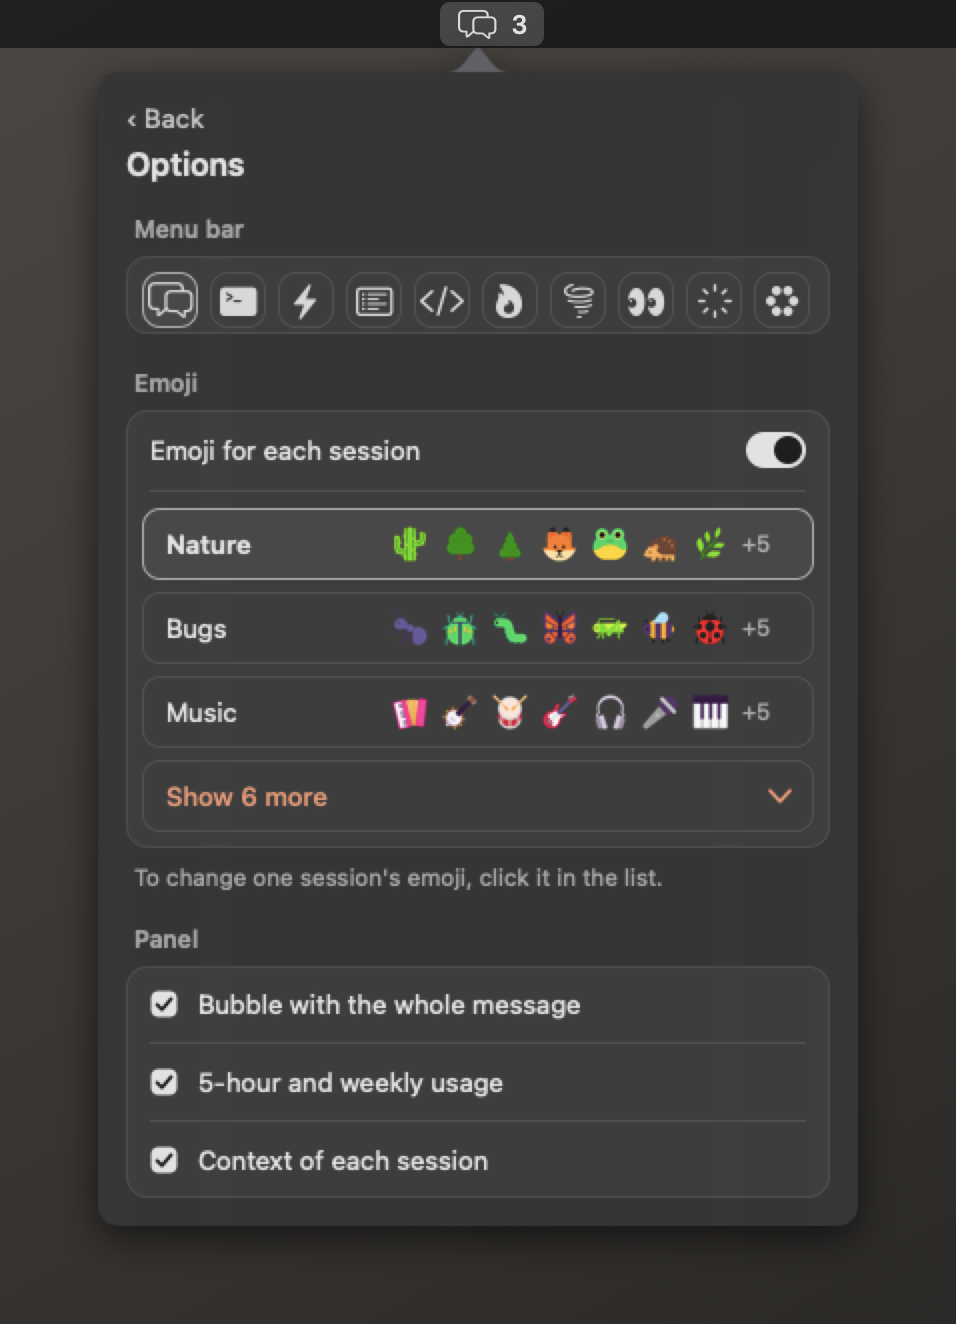
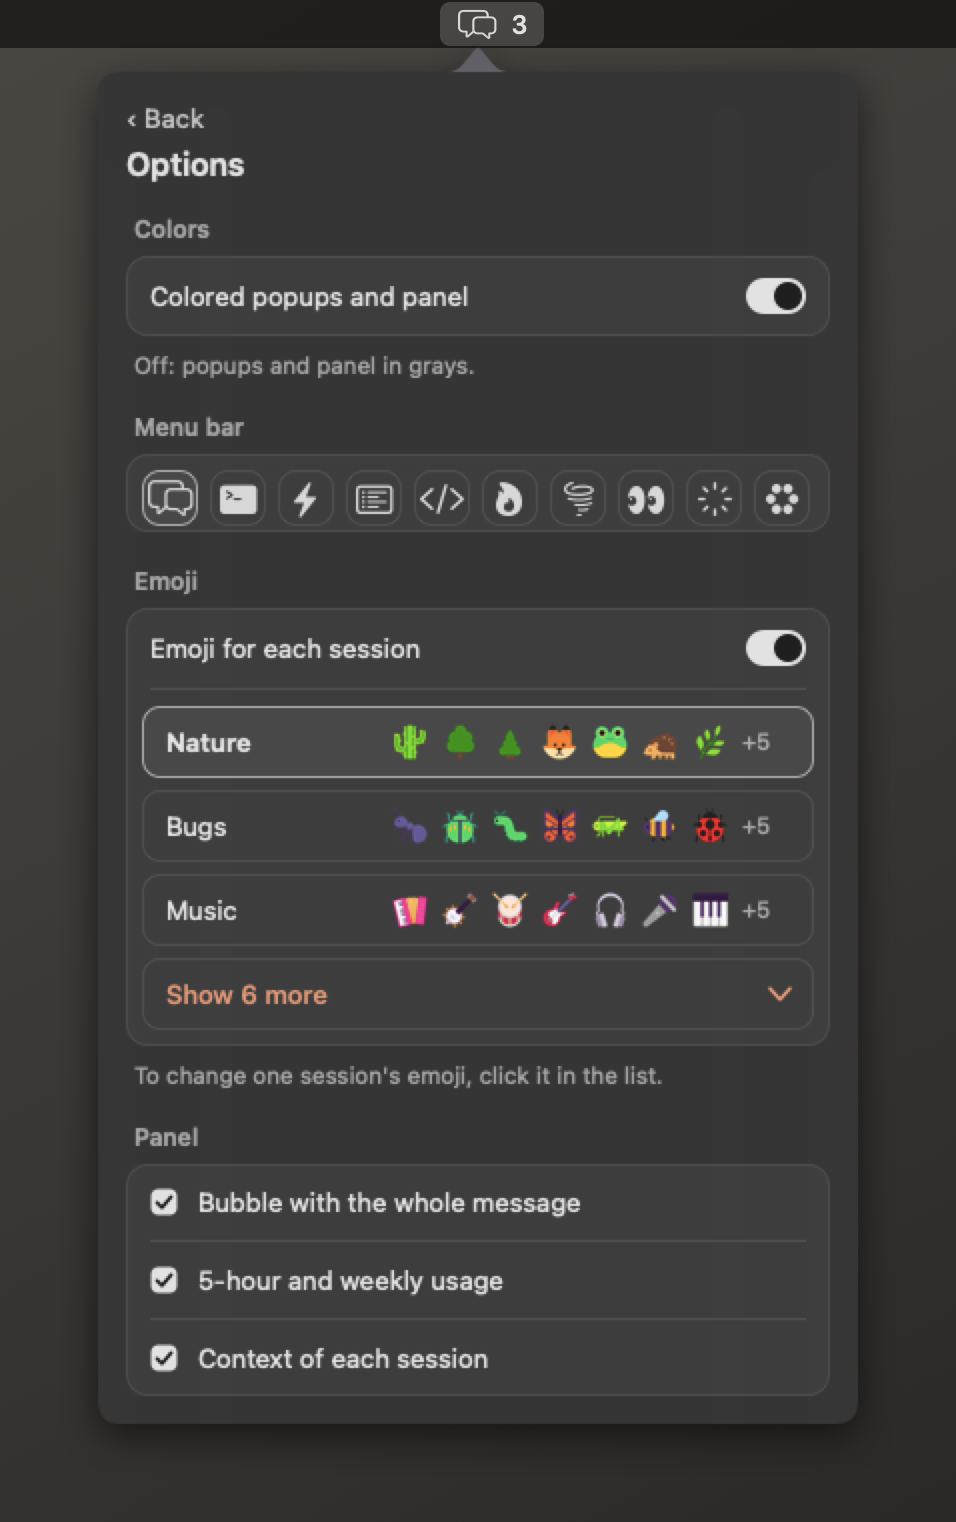
Options: switch between colored and monochrome popups and panel
A Colors group at the top of the menu bar's options page writes popup.style
(color when on, mono when off; neutral counts as on) into config.json, keeping
every other key, and refreshes the panel. Adds a test hook (CCNOTIFY_TEST_COLORS),
tests, docs and new options screenshots.

diff --git a/src/menubar/main.swift b/src/menubar/main.swift
@@ -18,7 +18,8 @@
 //                                                   written by the status line (optional: no file, no "Limits" block)
 // A session counts as seen when seen >= since (a json "seen": true is also honored). Sessions with a newer-or-equal
 // tombstone in state/ended/ are hidden. CCNOTIFY_HOME defaults to $CLAUDE_CONFIG_DIR/ccnotify (~/.claude/ccnotify).
-// Language: "language" in config.json ("auto" | "en" | "es"); "popup.style": "mono" turns the panel grayscale.
+// Language: "language" in config.json ("auto" | "en" | "es"); "popup.style": "mono" turns the panel grayscale
+// (the Colors switch on the options page writes that key, and only that key).
 //
 // The session files are owned by the hooks; this app never writes them. It also watches each session's transcript,
 // in memory only, so a state does not stay stale when no hook fires (permission approved, request interrupted, you
@@ -52,6 +53,8 @@
 //   CCNOTIFY_TEST_ORDER=1           prints the session ids in list order and quits.
 //   CCNOTIFY_TEST_EMOJI=1           prints "<id>\t<family>/<name>.png|-\tmanual|auto" per session (in id order) and quits.
 //   CCNOTIFY_TEST_OPTIONS=<json>    saves those keys the way the options page does, prints options.json and quits.
+//   CCNOTIFY_TEST_COLORS=on|off     writes popup.style (color | mono) into config.json the way the Colors switch does, prints
+//                                   config.json and quits (exit 2 if it could not be written).
 //   CCNOTIFY_TEST_CHOOSE=<id>=<family>/<name>.png   saves that session's emoji by hand (empty after "=": removes it) and quits.
 //   CCNOTIFY_TEST_NAV=<id>          opens the panel and does what the clicks do (options page, switches, icon, emoji picker of that
 //                                   row), noting each step in stderr, and quits.
@@ -126,6 +129,29 @@ func configStyle() -> String {
     return "color"
 }
 
+/// True when popups and panel are in color: popup.style is anything but "mono" ("color" and "neutral" count as on).
+func colorsEnabled() -> Bool { configStyle() != "mono" }
+
+/// Writes only popup.style ("color" or "mono") into config.json and keeps every other key (pretty printed, indent 2,
+/// private atomic write). A missing file is created with just {"popup": {"style": ...}}; a file that exists but is not
+/// a JSON object is left alone (returns false), so a hand-edited config is never overwritten by a guess.
+@discardableResult
+func setConfigStyle(_ style: String, path: String = ccHome + "/config.json") -> Bool {
+    guard style == "color" || style == "mono" else { return false }
+    var cfg: [String: Any] = [:]
+    if let data = FileManager.default.contents(atPath: path) {
+        guard let o = (try? JSONSerialization.jsonObject(with: data)) as? [String: Any] else { return false }
+        cfg = o
+    }
+    var popup = cfg["popup"] as? [String: Any] ?? [:]
+    popup["style"] = style
+    cfg["popup"] = popup
+    guard let out = try? JSONSerialization.data(withJSONObject: cfg, options: [.prettyPrinted, .sortedKeys, .withoutEscapingSlashes])
+    else { return false }
+    ensureDir((path as NSString).deletingLastPathComponent)
+    return writePrivate(out + Data("\n".utf8), to: path)
+}
+
 /// popup.private: the hooks keep message text out of the state files, and so does this app.
 func configPrivate() -> Bool {
     ((configObject()["popup"] as? [String: Any])?["private"] as? Bool) ?? false
@@ -195,6 +221,9 @@ struct Strings {
     // Options page
     var back: String { es ? "‹ Volver" : "‹ Back" }
     var sectionMenuBar: String { es ? "Barra de menú" : "Menu bar" }
+    var sectionColors: String { es ? "Colores" : "Colors" }
+    var optColors: String { es ? "Avisos y panel en color" : "Colored popups and panel" }
+    var colorsNote: String { es ? "Apagado: las ventanitas y el panel en grises." : "Off: popups and panel in grays." }
     var sectionEmoji: String { "Emoji" }
     var sectionPanel: String { "Panel" }
     var emojiForEach: String { es ? "Emoji en cada sesión" : "Emoji for each session" }
@@ -676,7 +705,7 @@ func isSymbolName(_ s: String) -> Bool {
 }
 
 /// What the panel shows and the status item looks like. Lives in <CCNOTIFY_HOME>/state/menubar/options.json, which only
-/// this app writes (never config.json). Missing or unreadable file: everything at its default.
+/// this app writes (the only key it writes in config.json is popup.style, from the Colors switch). Missing or unreadable file: everything at its default.
 ///   {"icon": "<SF Symbol>", "emoji_theme": "<family>" | "none", "bubble": true, "usage": true, "context": true}
 struct PanelOptions {
     var icon = defaultBarIcon
@@ -2033,6 +2062,13 @@ final class MenuBar: NSObject, NSApplicationDelegate, NSPopoverDelegate {
             fflush(stdout)
             exit(ok ? 0 : 2)
         }
+        if let v = env["CCNOTIFY_TEST_COLORS"], !v.isEmpty {
+            // "on" / "off" writes popup.style the way the options switch does, prints config.json and quits
+            let ok = v == "on" || v == "off" ? setConfigStyle(v == "on" ? "color" : "mono") : false
+            if let data = FileManager.default.contents(atPath: ccHome + "/config.json") { print(String(decoding: data, as: UTF8.self), terminator: "") }
+            fflush(stdout)
+            exit(ok ? 0 : 2)
+        }
         if let spec = env["CCNOTIFY_TEST_CHOOSE"], let eq = spec.firstIndex(of: "=") {
             // "<session>=<family>/<name>.png" saves the emoji you chose by hand for that session; with the right side empty, removes it
             opts = PanelOptions.load()
@@ -2869,8 +2905,16 @@ final class MenuBar: NSObject, NSApplicationDelegate, NSPopoverDelegate {
         rebuildPanel(force: true)
     }
 
-    /// The options page, in three grouped boxes: "Menu bar" (the icon, one line), "Emoji" (a switch and a row per family
-    /// with its pictures) and "Panel" (three checkboxes).
+    /// Colored or grayscale: writes popup.style to config.json (the popups read it on their next notification, the
+    /// panel at once) and refreshes the panel.
+    func applyColors(_ on: Bool) {
+        setConfigStyle(on ? "color" : "mono")
+        refresh()
+        rebuildPanel(force: true)
+    }
+
+    /// The options page, in four grouped boxes: "Colors" (one switch), "Menu bar" (the icon, one line), "Emoji" (a switch
+    /// and a row per family with its pictures) and "Panel" (three checkboxes).
     func buildOptions(opaque: Bool) -> (NSView, String) {
         let WIDTH: CGFloat = 380, PAD: CGFloat = 14
         let inner = WIDTH - 2 * PAD
@@ -2907,6 +2951,24 @@ final class MenuBar: NSObject, NSApplicationDelegate, NSPopoverDelegate {
             panel.addSubview(b)
             return b
         }
+
+        // 0. Colors: one switch for popup.style (color or mono); the note says what off means
+        label(L.sectionColors)
+        let boxColors = newBox()
+        let colorsOn = colorsEnabled()
+        signatureInProgress += "<colors:\(colorsOn)>"
+        let colorsRow = OptionRow(L.optColors, on: colorsOn, width: boxWidth, height: 40, inset: 12, asSwitch: true) { [unowned self] in
+            self.applyColors(!colorsOn)
+        }
+        colorsRow.frame.origin = NSPoint(x: PAD, y: y)
+        panel.addSubview(colorsRow)
+        y += 40
+        boxColors.frame.size.height = 40
+        y += 8
+        let colorsNote = text(L.colorsNote, 11.5, .regular, .secondaryLabelColor, width: inner - 8, lines: 0)
+        colorsNote.frame.origin = NSPoint(x: PAD + 4, y: y)
+        panel.addSubview(colorsNote)
+        y += colorsNote.textSize.height + BETWEEN
 
         // 1. Menu bar: the icons in one line of 28 pt buttons
         label(L.sectionMenuBar)

diff --git a/tests/test_menubar_colors.py b/tests/test_menubar_colors.py
@@ -1,0 +1,79 @@
+"""The Colors switch of the menu bar's options page: it writes popup.style (color | mono) into config.json.
+
+Runs the built menu bar app through its test hook CCNOTIFY_TEST_COLORS=on|off, so it needs the binary:
+    scripts/build.sh /tmp/ccn-build
+    CCNOTIFY_MENUBAR_BIN="/tmp/ccn-build/CCNotify Sessions.app/Contents/MacOS/ccnotify-sessions" \
+        python3 -m unittest tests.test_menubar_colors
+Without CCNOTIFY_MENUBAR_BIN the tests are skipped (building the Swift app takes minutes; CI builds it separately).
+"""
+import json
+import os
+import stat
+import subprocess
+import tempfile
+import unittest
+
+BIN = os.environ.get("CCNOTIFY_MENUBAR_BIN", "")
+
+
+@unittest.skipUnless(BIN and os.path.exists(BIN), "set CCNOTIFY_MENUBAR_BIN to the built ccnotify-sessions binary")
+class ColorsSwitchTests(unittest.TestCase):
+    def setUp(self):
+        self.home = tempfile.mkdtemp(prefix="ccnotify-colors-")
+        self.config = os.path.join(self.home, "config.json")
+
+    def run_hook(self, value):
+        env = dict(os.environ, CCNOTIFY_HOME=self.home, CCNOTIFY_TEST_COLORS=value)
+        return subprocess.run([BIN], env=env, stdout=subprocess.PIPE, stderr=subprocess.PIPE,
+                              universal_newlines=True, timeout=30)
+
+    def read(self):
+        with open(self.config) as f:
+            return json.load(f)
+
+    def test_creates_the_file_when_missing(self):
+        self.assertEqual(self.run_hook("off").returncode, 0)
+        self.assertEqual(self.read(), {"popup": {"style": "mono"}})
+        mode = stat.S_IMODE(os.stat(self.config).st_mode)
+        self.assertEqual(mode, 0o600)
+
+    def test_on_writes_color(self):
+        self.run_hook("off")
+        self.assertEqual(self.run_hook("on").returncode, 0)
+        self.assertEqual(self.read(), {"popup": {"style": "color"}})
+
+    def test_keeps_every_other_key(self):
+        original = {"language": "es", "popup": {"seconds": 30, "style": "neutral", "width": 500},
+                    "sounds": {"done": {"sound": "Glass", "volume": 0.5}},
+                    "quiet_hours": {"enabled": True, "from": "22:00", "to": "07:00"}}
+        with open(self.config, "w") as f:
+            json.dump(original, f)
+        self.assertEqual(self.run_hook("off").returncode, 0)
+        expected = json.loads(json.dumps(original))
+        expected["popup"]["style"] = "mono"
+        self.assertEqual(self.read(), expected)
+        self.assertEqual(self.run_hook("on").returncode, 0)
+        expected["popup"]["style"] = "color"
+        self.assertEqual(self.read(), expected)
+
+    def test_adds_popup_when_the_file_has_none(self):
+        with open(self.config, "w") as f:
+            json.dump({"language": "en"}, f)
+        self.run_hook("off")
+        self.assertEqual(self.read(), {"language": "en", "popup": {"style": "mono"}})
+
+    def test_never_overwrites_a_file_that_is_not_json(self):
+        with open(self.config, "w") as f:
+            f.write("{ not json")
+        self.assertEqual(self.run_hook("off").returncode, 2)
+        with open(self.config) as f:
+            self.assertEqual(f.read(), "{ not json")
+
+    def test_indent_is_two_spaces(self):
+        self.run_hook("off")
+        with open(self.config) as f:
+            self.assertIn('\n  "popup" : {\n    "style" : "mono"\n  }', f.read())
+
+
+if __name__ == "__main__":
+    unittest.main()

diff --git a/README.es.md b/README.es.md
@@ -89,7 +89,7 @@ alineadas. Las imágenes siguen el tema claro u oscuro de tu GitHub; el aviso si
 
 ## 2. Estilos
 
-Se elige con `"popup": { "style": "color" }` en la [configuración](#configurar).
+Se elige con `"popup": { "style": "color" }` en la [configuración](#configurar), o con el interruptor Colores de la página de opciones de la barra de menú.
 
 | `color` (por defecto) | `neutral` | `mono` |
 |---|---|---|
@@ -145,17 +145,17 @@ recordatorio · trabajando · leídas.
 
 **Opciones.** El engranaje junto a Salir abre una página con lo que muestra el panel y cómo se ve: el **ícono** de la
 barra de menú, el **emoji** de cada sesión y si quieres el globo con el mensaje, los límites de uso y el contexto de
-cada sesión. Tus cambios se guardan en `state/menubar/options.json` (un archivo propio de la app; `config.json` no se
-toca).
+cada sesión. Tus cambios se guardan en `state/menubar/options.json` (un archivo propio de la app; lo único que escribe en `config.json` es
+`popup.style`, desde el interruptor Colores).
 
 **Un emoji para cada sesión.** Cada sesión abierta recibe su propia imagen pequeña (viene activado; el interruptor está en la página de opciones), de
 una familia que tú eliges (naturaleza, bichos, música, acogedor, aventura, animales, frutas, gemas y objetos, colores) y distinta de las
 otras abiertas, para reconocer tus sesiones de un vistazo. Toca el emoji de una fila para elegir otro tú mismo, o vuelve
 a *Automático*. Las imágenes son [Fluent Emoji](https://github.com/microsoft/fluentui-emoji) de Microsoft (MIT).
 
-<p align="center"><picture><source media="(prefers-color-scheme: dark)" srcset="docs/img/menubar-options-dark.png"><img src="docs/img/menubar-options-light.png" width="300" alt="La página de opciones: ícono de la barra de menú, familias de emoji y casillas del panel"></picture> <picture><source media="(prefers-color-scheme: dark)" srcset="docs/img/menubar-picker-dark.png"><img src="docs/img/menubar-picker-light.png" width="300" alt="El selector de emoji de una fila, con todas las familias"></picture></p>
+<p align="center"><picture><source media="(prefers-color-scheme: dark)" srcset="docs/img/menubar-options-dark.png"><img src="docs/img/menubar-options-light.png" width="300" alt="La página de opciones: interruptor de colores, ícono de la barra de menú, familias de emoji y casillas del panel"></picture> <picture><source media="(prefers-color-scheme: dark)" srcset="docs/img/menubar-picker-dark.png"><img src="docs/img/menubar-picker-light.png" width="300" alt="El selector de emoji de una fila, con todas las familias"></picture></p>
 
-En el estilo `mono` nada lleva color (los emoji también se ven en gris).
+En el estilo `mono` nada lleva color (los emoji también se ven en gris). Puedes pasar de color a mono sin editar la configuración: el interruptor **Colores** al inicio de la página de opciones escribe `popup.style` (`color` encendido, `mono` apagado; `neutral` cuenta como encendido) y nada más en `config.json`.
 
 <p align="center"><picture><source media="(prefers-color-scheme: dark)" srcset="docs/img/menubar-mono-dark.png"><img src="docs/img/menubar-mono-light.png" width="434" alt="El mismo panel en estilo mono: en grises, con los emoji en gris"></picture></p>
 

diff --git a/README.md b/README.md
@@ -89,7 +89,7 @@ Images here follow your GitHub light/dark theme; the popup follows macOS.
 
 ## 2. Styles
 
-Choose with `"popup": { "style": "color" }` in the [config](#configure).
+Choose with `"popup": { "style": "color" }` in the [config](#configure), or flip color / mono with the Colors switch on the menu bar's options page.
 
 | `color` (default) | `neutral` | `mono` |
 |---|---|---|
@@ -144,16 +144,16 @@ ones you haven't looked at. No number means nothing is pending. Click it for one
 
 **Options.** The gear next to Quit opens a page for what the panel shows and how it looks: the **icon** of the menu bar
 item, **emoji** for each session, and whether to show the message bubble, the usage limits and the context of each
-session. Your choices are saved in `state/menubar/options.json` (the app's own file; `config.json` is never touched).
+session. Your choices are saved in `state/menubar/options.json` (the app's own file; the only thing it writes in `config.json` is `popup.style`, from the Colors switch).
 
 **An emoji for each session.** Every open session gets its own small picture (on by default; the switch is on the options page), from a family you
 choose (nature, bugs, music, cozy, adventure, animals, fruits, gems & objects, colors) and different from the other open ones,
 so you tell your sessions apart at a glance. Click the emoji in a row to pick another one yourself, or go back to
 *Automatic*. The pictures are [Fluent Emoji](https://github.com/microsoft/fluentui-emoji) by Microsoft (MIT).
 
-<p align="center"><picture><source media="(prefers-color-scheme: dark)" srcset="docs/img/menubar-options-dark.png"><img src="docs/img/menubar-options-light.png" width="300" alt="The options page: icon of the menu bar, emoji families and the panel checkboxes"></picture> <picture><source media="(prefers-color-scheme: dark)" srcset="docs/img/menubar-picker-dark.png"><img src="docs/img/menubar-picker-light.png" width="300" alt="The emoji picker of a row, with every family"></picture></p>
+<p align="center"><picture><source media="(prefers-color-scheme: dark)" srcset="docs/img/menubar-options-dark.png"><img src="docs/img/menubar-options-light.png" width="300" alt="The options page: colors switch, icon of the menu bar, emoji families and the panel checkboxes"></picture> <picture><source media="(prefers-color-scheme: dark)" srcset="docs/img/menubar-picker-dark.png"><img src="docs/img/menubar-picker-light.png" width="300" alt="The emoji picker of a row, with every family"></picture></p>
 
-In `mono` style nothing is colored (the emoji turn gray too).
+In `mono` style nothing is colored (the emoji turn gray too). You can switch between color and mono without editing the config: the **Colors** switch at the top of the options page writes `popup.style` (`color` when on, `mono` when off; `neutral` counts as on) and nothing else in `config.json`.
 
 <p align="center"><picture><source media="(prefers-color-scheme: dark)" srcset="docs/img/menubar-mono-dark.png"><img src="docs/img/menubar-mono-light.png" width="434" alt="The same panel in mono style: grayscale, with the emoji in gray"></picture></p>
 

diff --git a/docs/ARCHITECTURE.md b/docs/ARCHITECTURE.md
@@ -153,8 +153,9 @@ dynamic colors resolve on every redraw, so light and dark follow the system.
   (a JSON in `state/queue/` and `open -n -g CCNotify.app`); it is dropped when the session changes state or ends.
 - **Limits:** the "Limits" block comes from `state/usage.json`; the "ctx NN %" of a row from `state/context/<id>.json`.
   Both are written by the status line, so without it there is neither.
-- **Options page** (the gear in the footer): the icon of the status item (a line of SF Symbols), emoji on/off and
-  the family, and three checkboxes (bubble, usage, context). Saved to `state/menubar/options.json`, never to
+- **Options page** (the gear in the footer): a **Colors** switch (color ⇄ mono, see [Styles](#styles-added-after-visual-review)),
+  the icon of the status item (a line of SF Symbols), emoji on/off and the family, and three checkboxes (bubble, usage,
+  context). The checkboxes, icon and emoji are saved to `state/menubar/options.json`, not to
   `config.json`: `{"icon", "emoji_theme": "<family>" | "none", "bubble", "usage", "context"}`. Unknown keys are kept; a
   missing or unreadable file means the defaults (`bubble.left.and.bubble.right`, `nature`, everything on).
 - **Emoji:** families are the folders of `Contents/Resources/emoji/` (`nature`, `bugs`, `music`, `cozy`, `adventure`,
@@ -262,6 +263,11 @@ These refine everything above. When in doubt, this section wins.
   attention tint),
   `"mono"` (grayscale only; needs-you kinds use a filled symbol, semibold label and a stronger full border).
   Any other value, or a missing key, means `"color"` (validated in `hooks/notify.py`, and again in the popup app).
+- The **Colors** switch (first group of the menu bar's Options page) flips `popup.style` between `"color"` (on) and
+  `"mono"` (off); `"neutral"` counts as on. It is the one thing the menu bar app writes in `config.json`: it reads the
+  JSON, changes only `popup.style` (other keys kept, indent 2, atomic private write; a missing file is created with just
+  that key; a file that is not valid JSON is left untouched) and refreshes the panel. The popups pick it up on the next
+  notification, because `notify.py` and the menu bar send `style` in each popup JSON.
 - `popup.compact_lines` (default 2): lines shown by older popups in the stack.
 - Layout: header row (small icon · project · kind) separated from the body by a hairline rule; the body uses the
   full card width.
